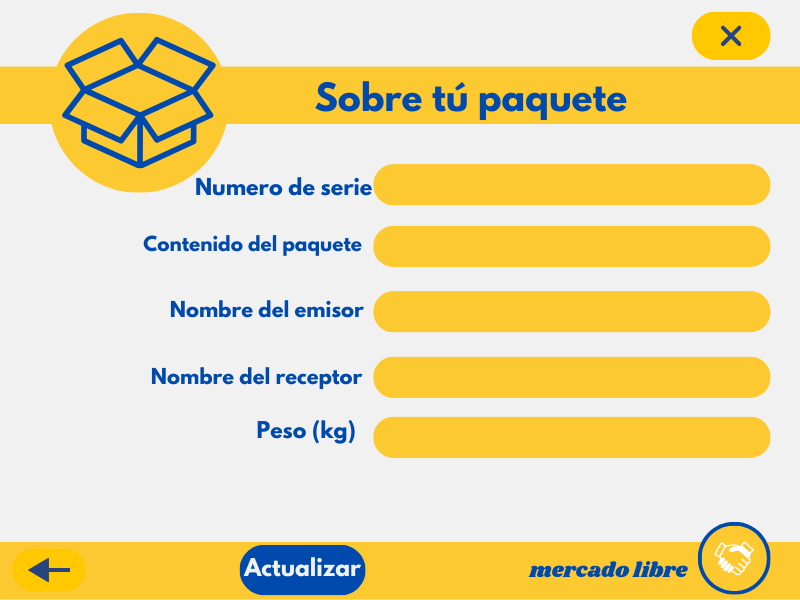
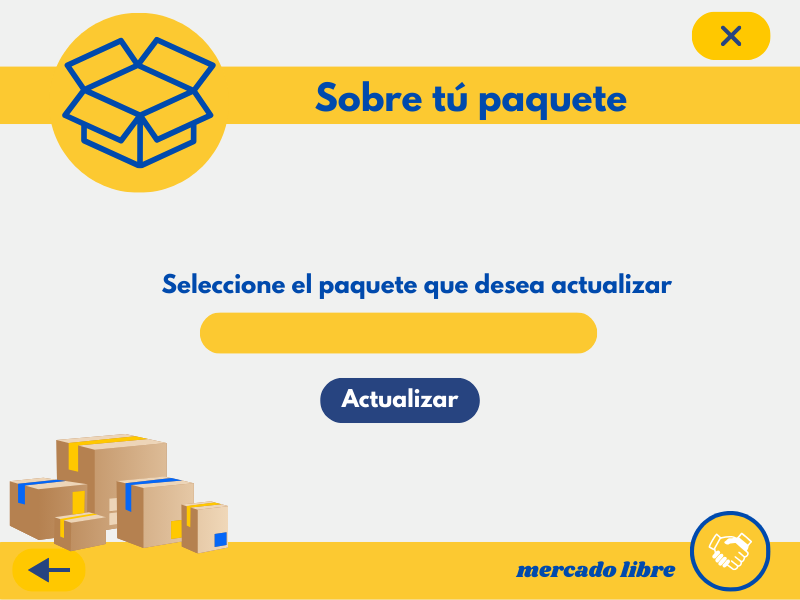
Update Filter

Changed region(s): [[0.1562, 0.27, 0.9688, 0.78], [0.0, 0.72, 0.4688, 1.0], [0.625, 0.84, 0.9688, 0.99]]

diff --git a/WorkSpaceEstruc/PackageHandlingMercadoLibre/src/co/edu/unbosque/controller/Controller.java b/WorkSpaceEstruc/PackageHandlingMercadoLibre/src/co/edu/unbosque/controller/Controller.java
@@ -8,11 +8,11 @@ import javax.swing.JOptionPane;
 import co.edu.unbosque.model.BranchDTO;
 import co.edu.unbosque.model.PackageDTO;
 import co.edu.unbosque.model.persistence.BranchDAO;
-import co.edu.unbosque.model.persistence.CRUDOperation;
 import co.edu.unbosque.model.persistence.CountryDAO;
 import co.edu.unbosque.model.persistence.PackageDAO;
 import co.edu.unbosque.view.ColombiaCRUDWindow;
 import co.edu.unbosque.view.CreateWindow;
+import co.edu.unbosque.view.FilterWindow;
 import co.edu.unbosque.view.MainWindow;
 import co.edu.unbosque.view.SelPackageDeleteWindow;
 import co.edu.unbosque.view.SelectCountryWindow;
@@ -34,6 +34,7 @@ public class Controller implements ActionListener {
 	private SelectPackageUpdateWindow selPackUpdateWin;
 	private UpdateWindow updateWin;
 	private SelectFilterTypeWindow selFilterTypeWin;
+	private FilterWindow filterWin;
 
 	private String countryActual;
 	private String currencyActual;
@@ -52,6 +53,7 @@ public class Controller implements ActionListener {
 		selPackUpdateWin = new SelectPackageUpdateWindow();
 		updateWin = new UpdateWindow();
 		selFilterTypeWin = new SelectFilterTypeWindow();
+		filterWin = new FilterWindow();
 
 		addReaders();
 	}
@@ -132,6 +134,24 @@ public class Controller implements ActionListener {
 
 		updateWin.getUpdate().addActionListener(this);
 		updateWin.getUpdate().setActionCommand("UPDATE PACKAGE");
+
+		selFilterTypeWin.getExit().addActionListener(this);
+		selFilterTypeWin.getExit().setActionCommand("EXIT");
+
+		selFilterTypeWin.getBack().addActionListener(this);
+		selFilterTypeWin.getBack().setActionCommand("BACK SELECT TYPE FILTER");
+
+		selFilterTypeWin.getFilter().addActionListener(this);
+		selFilterTypeWin.getFilter().setActionCommand("FILTER");
+
+		filterWin.getExit().addActionListener(this);
+		filterWin.getExit().setActionCommand("EXIT");
+
+		filterWin.getBack().addActionListener(this);
+		filterWin.getBack().setActionCommand("BACK FILTER");
+
+		filterWin.getFilter().addActionListener(this);
+		filterWin.getFilter().setActionCommand("FILTER PACKAGES");
 
 	}
 
@@ -258,6 +278,31 @@ public class Controller implements ActionListener {
 			colCrudWin.setVisible(false);
 			break;
 		}
+		case "BACK SELECT TYPE FILTER": {
+			backSelFilter();
+			break;
+
+		}
+		case "FILTER": {
+
+			filterWin.setVisible(true);
+			selFilterTypeWin.setVisible(false);
+			break;
+
+		}
+		case "FILTER PACKAGES": {
+			filterPackages();
+			selFilterTypeWin.setVisible(true);
+			filterWin.setVisible(false);
+			break;
+
+		}
+		case "BACK FILTER": {
+
+			selFilterTypeWin.setVisible(true);
+			filterWin.setVisible(false);
+			break;
+		}
 		default:
 			break;
 		}
@@ -311,6 +356,29 @@ public class Controller implements ActionListener {
 
 		System.out.println("-------------");
 		System.out.println(branDAO.read());
+	}
+
+	public void filterPackages() {
+
+		if (selFilterTypeWin.getSelect().getSelectedItem().toString().equals("Numero de serie")) {
+
+			Long searchNum = Long.parseLong(filterWin.getSearchWord().getText());
+			JOptionPane.showMessageDialog(mainWin, packDAO.searchBySerialNumber(0, searchNum));
+
+		} else if (selFilterTypeWin.getSelect().getSelectedItem().toString().equals("Contenido del paquete")) {
+			String searchContent = filterWin.getSearchWord().getText();
+			JOptionPane.showMessageDialog(mainWin, packDAO.searchByPackageContent(0, searchContent));
+		} else if (selFilterTypeWin.getSelect().getSelectedItem().toString().equals("Nombre del emisor")) {
+			String searchTransmitter = filterWin.getSearchWord().getText();
+			JOptionPane.showMessageDialog(mainWin, packDAO.searchByTransmitterName(0, searchTransmitter));
+		} else if (selFilterTypeWin.getSelect().getSelectedItem().toString().equals("Nombre del receptor")) {
+			String searchReceptor = filterWin.getSearchWord().getText();
+			JOptionPane.showMessageDialog(mainWin, packDAO.searchByRecieverName(0, searchReceptor));
+		} else if (selFilterTypeWin.getSelect().getSelectedItem().toString().equals("Peso")) {
+			float searchWeight = Float.parseFloat(filterWin.getSearchWord().getText());
+			JOptionPane.showMessageDialog(mainWin, packDAO.searchByWeight(0, searchWeight));
+		}
+
 	}
 
 	public boolean exitConfirm() {
@@ -842,6 +910,137 @@ public class Controller implements ActionListener {
 			colCrudWin.setVisible(true);
 			selPackUpdateWin.setVisible(false);
 			updateBoxSelectUpdatePackage();
+		}
+
+	}
+
+	public void backSelFilter() {
+		if (countryActual.equals("COLOMBIA") && currencyActual.equals("COP")) {
+
+			colCrudWin.setVisible(true);
+			selFilterTypeWin.setVisible(false);
+
+		}
+		if (countryActual.equals("MEXICO") && currencyActual.equals("MXV")) {
+
+			colCrudWin.setVisible(true);
+			selFilterTypeWin.setVisible(false);
+		}
+		if (countryActual.equals("ARGENTINA") && currencyActual.equals("ARS")) {
+
+			colCrudWin.setVisible(true);
+			selFilterTypeWin.setVisible(false);
+
+		}
+		if (countryActual.equals("PERU") && currencyActual.equals("PEN")) {
+
+			colCrudWin.setVisible(true);
+			selFilterTypeWin.setVisible(false);
+		}
+		if (countryActual.equals("VENEZUELA") && currencyActual.equals("VEF")) {
+
+			colCrudWin.setVisible(true);
+			selFilterTypeWin.setVisible(false);
+		}
+		if (countryActual.equals("CHILE") && currencyActual.equals("CLP")) {
+
+			colCrudWin.setVisible(true);
+			selFilterTypeWin.setVisible(false);
+		}
+		if (countryActual.equals("ECUADOR") && currencyActual.equals("USD")) {
+
+			colCrudWin.setVisible(true);
+			selFilterTypeWin.setVisible(false);
+		}
+		if (countryActual.equals("GUATEMALA") && currencyActual.equals("GTQ")) {
+
+			colCrudWin.setVisible(true);
+			selFilterTypeWin.setVisible(false);
+		}
+		if (countryActual.equals("CUBA") && currencyActual.equals("CUP")) {
+
+			colCrudWin.setVisible(true);
+			selFilterTypeWin.setVisible(false);
+		}
+		if (countryActual.equals("BOLIVIA") && currencyActual.equals("BOV")) {
+
+			colCrudWin.setVisible(true);
+			selFilterTypeWin.setVisible(false);
+		}
+		if (countryActual.equals("REPUBLICA DOMINICANA") && currencyActual.equals("DOP")) {
+
+			colCrudWin.setVisible(true);
+			selFilterTypeWin.setVisible(false);
+		}
+		if (countryActual.equals("HONDURAS") && currencyActual.equals("HNL")) {
+
+			colCrudWin.setVisible(true);
+			selFilterTypeWin.setVisible(false);
+		}
+		if (countryActual.equals("PARAGUAY") && currencyActual.equals("PYG")) {
+
+			colCrudWin.setVisible(true);
+			selFilterTypeWin.setVisible(false);
+		}
+		if (countryActual.equals("EL SALVADOR") && currencyActual.equals("SVC")) {
+
+			colCrudWin.setVisible(true);
+			selFilterTypeWin.setVisible(false);
+		}
+		if (countryActual.equals("NICARAGUA") && currencyActual.equals("NIO")) {
+
+			colCrudWin.setVisible(true);
+			selFilterTypeWin.setVisible(false);
+		}
+		if (countryActual.equals("COSTA RICA") && currencyActual.equals("CRC")) {
+
+			colCrudWin.setVisible(true);
+			selFilterTypeWin.setVisible(false);
+		}
+		if (countryActual.equals("PUERTO RICO") && currencyActual.equals("USD")) {
+
+			colCrudWin.setVisible(true);
+			selFilterTypeWin.setVisible(false);
+		}
+		if (countryActual.equals("PANAMA") && currencyActual.equals("USD")) {
+
+			colCrudWin.setVisible(true);
+			selFilterTypeWin.setVisible(false);
+		}
+		if (countryActual.equals("URUGUAY") && currencyActual.equals("UYU")) {
+
+			colCrudWin.setVisible(true);
+			selFilterTypeWin.setVisible(false);
+		}
+		if (countryActual.equals("JAMAICA") && currencyActual.equals("JMD")) {
+
+			colCrudWin.setVisible(true);
+			selFilterTypeWin.setVisible(false);
+		}
+		if (countryActual.equals("TRINIDAD Y TOBAGO") && currencyActual.equals("TTD")) {
+
+			colCrudWin.setVisible(true);
+			selFilterTypeWin.setVisible(false);
+		}
+		if (countryActual.equals("HAITI") && currencyActual.equals("USD")) {
+
+			colCrudWin.setVisible(true);
+			selFilterTypeWin.setVisible(false);
+		}
+		if (countryActual.equals("GUYANA") && currencyActual.equals("EUR")) {
+
+			colCrudWin.setVisible(true);
+			selFilterTypeWin.setVisible(false);
+		}
+		if (countryActual.equals("SURINAM") && currencyActual.equals("SRD")) {
+
+			colCrudWin.setVisible(true);
+			selFilterTypeWin.setVisible(false);
+		}
+		if (countryActual.equals("BELICE") && currencyActual.equals("BZD")) {
+
+			colCrudWin.setVisible(true);
+			selFilterTypeWin.setVisible(false);
 		}
 
 	}

diff --git a/WorkSpaceEstruc/PackageHandlingMercadoLibre/src/co/edu/unbosque/view/FilterWindow.java b/WorkSpaceEstruc/PackageHandlingMercadoLibre/src/co/edu/unbosque/view/FilterWindow.java
@@ -6,27 +6,29 @@ import java.awt.Image;
 
 import javax.swing.ImageIcon;
 import javax.swing.JButton;
-import javax.swing.JComboBox;
 import javax.swing.JFrame;
 import javax.swing.JLabel;
+import javax.swing.JTextField;
+import javax.swing.border.EmptyBorder;
 
-public class SelectFilterTypeWindow extends JFrame {
+public class FilterWindow extends JFrame {
 
 	/**
 	 * 
 	 */
-	private static final long serialVersionUID = 1096794319769407597L;
+	private static final long serialVersionUID = 5181181913778235457L;
 
 	private JLabel mainImage;
 	private JButton exit, back, filter;
-	private JComboBox<String> select;
+	private JTextField searchWord;
 
-	public SelectFilterTypeWindow() {
+	public FilterWindow() {
 		// TODO Auto-generated constructor stub
+
 		setSize(1280, 720);
 		setResizable(false);
 		setLocationRelativeTo(null);
-		setTitle("Seleccionar Parametro para buscar");
+		setTitle("FILTRO");
 		setDefaultCloseOperation(HIDE_ON_CLOSE);
 		setUndecorated(true);
 		setLayout(null);
@@ -49,17 +51,15 @@ public class SelectFilterTypeWindow extends JFrame {
 		back.setBorderPainted(false);
 		add(back);
 
-		select = new JComboBox<>();
-		select.setBounds(320, 376, 633, 46);
-		select.addItem("Numero de serie");
-		select.addItem("Contenido del paquete");
-		select.addItem("Nombre emisor");
-		select.addItem("Nombre receptor");
-		select.addItem("Peso");
-		select.setBackground(new Color(225, 223, 228));
-		select.setForeground(Color.black);
-		select.setFont(new Font("Arial", 1, 25));
-		add(select);
+		searchWord = new JTextField();
+		searchWord.setBounds(320, 376, 633, 46);
+		searchWord.setBackground(new Color(0, 0, 0, 0));
+		searchWord.setOpaque(false);
+		searchWord.setBorder(new EmptyBorder(15, 15, 15, 15));
+		searchWord.setFont(new Font("Arial", 1, 25));
+		searchWord.setToolTipText("INGRESE LA PALABRA CLAVE");
+		searchWord.setForeground(Color.white);
+		add(searchWord);
 
 		filter = new JButton();
 		filter.setBounds(521, 459, 238, 55);
@@ -74,7 +74,7 @@ public class SelectFilterTypeWindow extends JFrame {
 		mainImage.setBounds(0, 0, 1280, 720);
 
 		Image temporal1;
-		temporal1 = new ImageIcon("src/Images/selactualizar.png").getImage();
+		temporal1 = new ImageIcon("src/Images/filtrar.png").getImage();
 
 		ImageIcon img1;
 		img1 = new ImageIcon(
@@ -118,15 +118,16 @@ public class SelectFilterTypeWindow extends JFrame {
 		this.filter = filter;
 	}
 
-	public JComboBox<String> getSelect() {
-		return select;
+	public JTextField getSearchWord() {
+		return searchWord;
 	}
 
-	public void setSelect(JComboBox<String> select) {
-		this.select = select;
+	public void setSearchWord(JTextField searchWord) {
+		this.searchWord = searchWord;
 	}
 
 	public static long getSerialversionuid() {
 		return serialVersionUID;
 	}
+
 }
